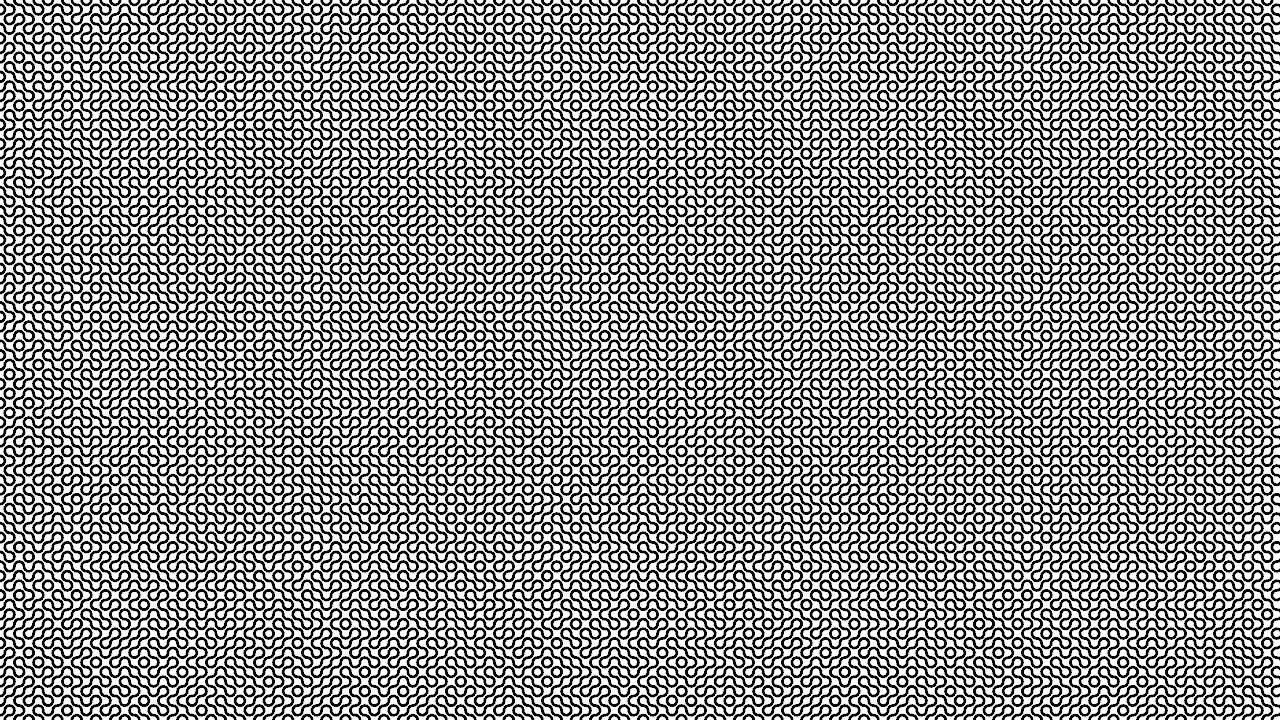
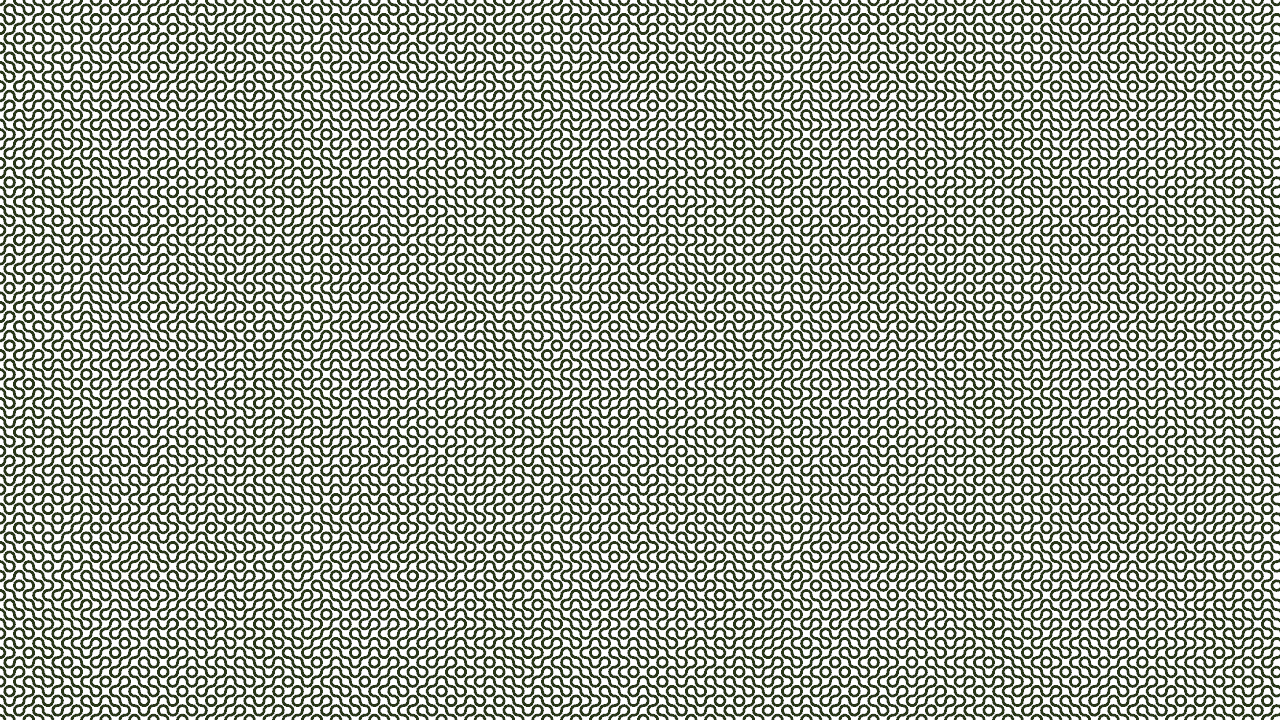
feat: change to have random color lines

diff --git a/src/bin/truchet_tiles.rs b/src/bin/truchet_tiles.rs
@@ -77,6 +77,7 @@ fn truchet(height:u32, width:u32) -> nannou::draw::Draw
 	let row_count = (width as f32/(radius*2.0)) as u32 + 1;
 	let line_weight = 3.0;
 
+	let color = random_color2();
 	let n_points = 91;
     // let radius = height as f32 * 0.16;
     let points = (0..n_points).map(|i| {
@@ -84,7 +85,7 @@ fn truchet(height:u32, width:u32) -> nannou::draw::Draw
         let phase = fract;
         let x = radius * (TAU * phase).cos();
         let y = radius * (TAU * phase).sin();
-        pt2(x, y)
+        (pt2(x, y), color)
     });
 	let mut rng = rand::thread_rng();
 	// eprintln!("rotation: {}", rotation);
@@ -114,7 +115,7 @@ fn truchet(height:u32, width:u32) -> nannou::draw::Draw
 						.stroke_weight(line_weight)
 						.join_round()
 						.caps_round()
-						.points(points.clone());
+						.points_colored(points.clone());
 
 					match rotation {
 						0 => {
@@ -142,7 +143,7 @@ fn truchet(height:u32, width:u32) -> nannou::draw::Draw
 						.stroke_weight(line_weight)
 						.join_round()
 						.caps_round()
-						.points(points.clone());
+						.points_colored(points.clone());
 		}
 	}
 	canvas
